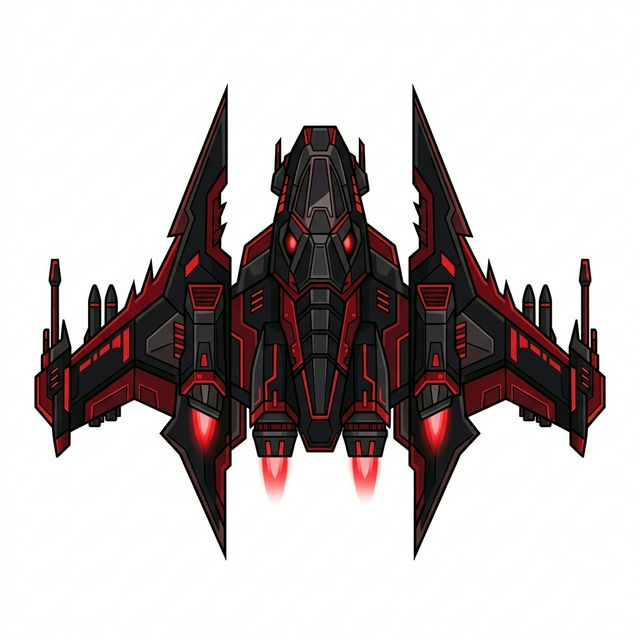
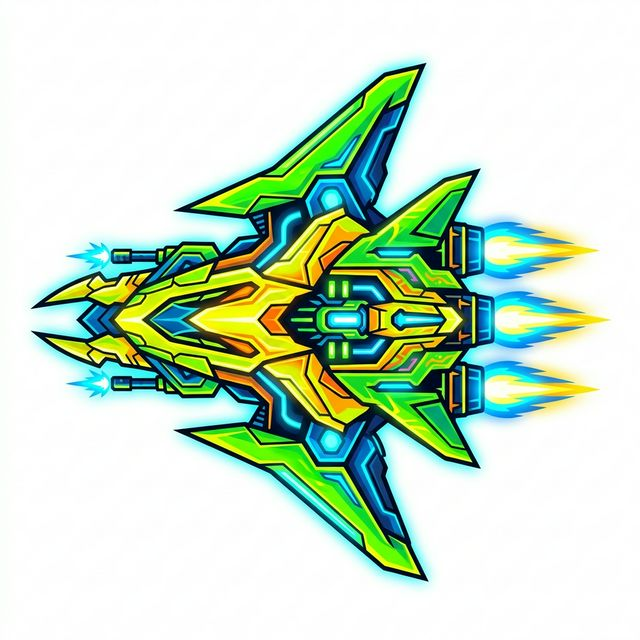
feat(assets): replace enemy sprite with highly visible neon version; increase enemy size from 40 to 60

diff --git a/game.js b/game.js
@@ -348,7 +348,7 @@ class EnemyBullet {
 class Enemy {
     constructor() { this.active = false; }
     init() {
-        this.width = 40; this.height = 40;
+        this.width = 60; this.height = 60;
         this.x = Math.random() * (canvas.width - this.width);
         this.y = -this.height;
         this.speed = Math.random() * 100 + 100;
